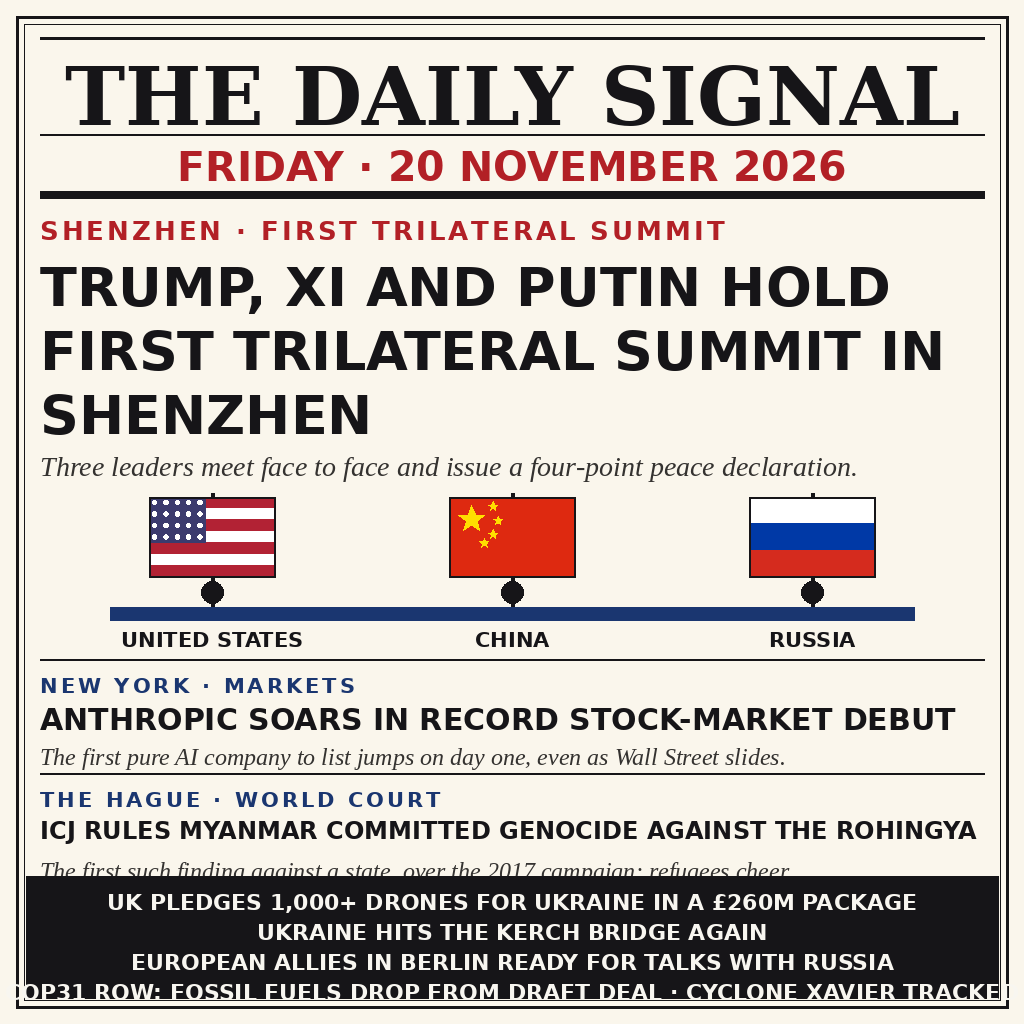
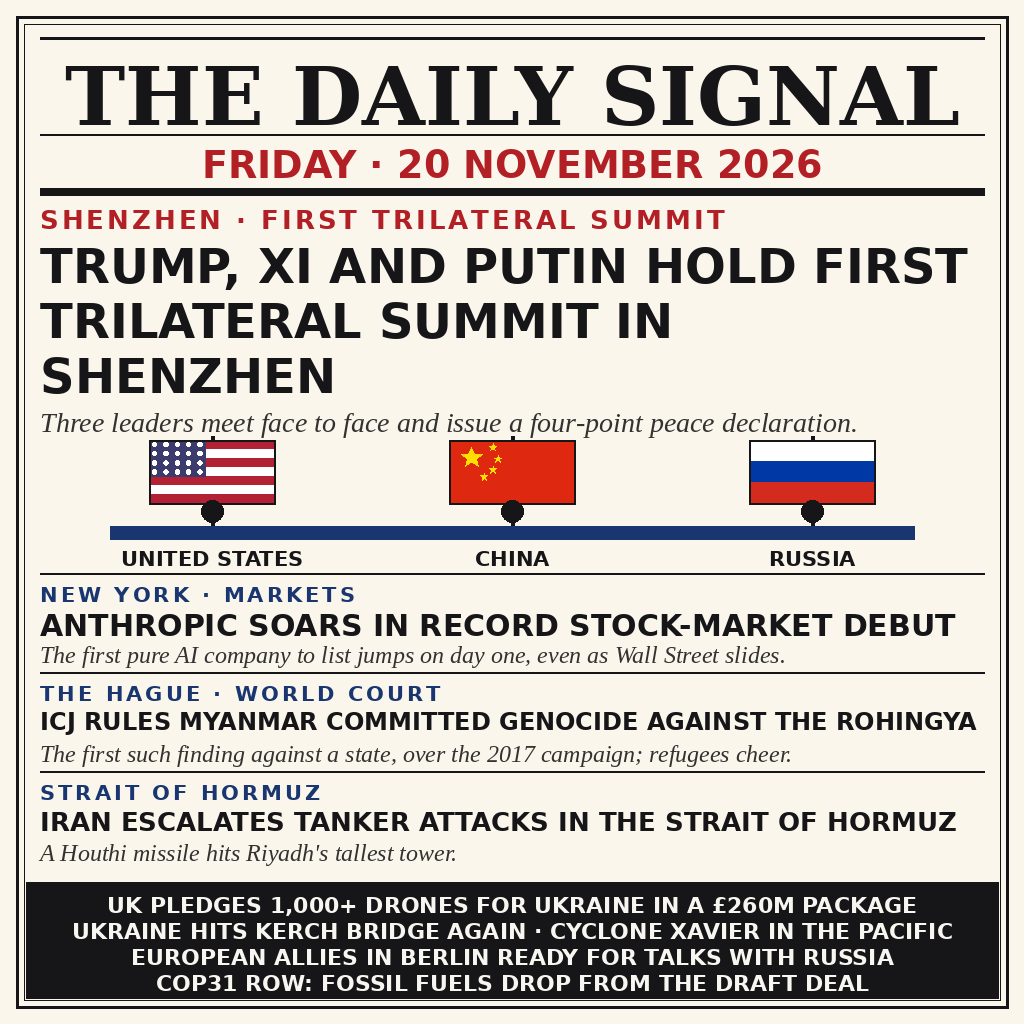
Legibility pass: rebalance the page so nothing crowds or clips
The first draft ran long: the third panel slid under the footer band
and the last ticker line clipped at the frame. Tightened the masthead,
hero and panel spacing, shrank the summit flags, shortened the ticker
lines so each fits the band at full size (with a fit guard in code),
and gave the standfirsts clear air above their rules. main.py now
delivers atomically: bytes land in a scratch file, verify, then rename
onto entry.png.

Changed region(s): [[0.0312, 0.125, 0.9688, 1.0], [0.0312, 0.9375, 0.0625, 0.9688]]

diff --git a/compose.py b/compose.py
@@ -122,11 +122,11 @@ def flag_russia(draw, x, y, w, h):
 
 def summit_graphic(draw, top):
     """Three flags on poles above a summit table, with name labels."""
-    flag_w, flag_h = 126, 80
+    flag_w, flag_h = 126, 64
     centers = (212, 512, 812)
     flags = (flag_united_states, flag_china, flag_russia)
     labels = ("UNITED STATES", "CHINA", "RUSSIA")
-    table_y = top + flag_h + 30
+    table_y = top + flag_h + 22
     for cx, draw_flag in zip(centers, flags):
         draw.line([cx, top - 4, cx, table_y], fill=INK, width=4)
         draw_flag(draw, cx - flag_w // 2, top, flag_w, flag_h)
@@ -137,7 +137,7 @@ def summit_graphic(draw, top):
     label_font = font(SANS_BOLD, 21)
     for cx, label in zip(centers, labels):
         draw.text((cx, table_y + 20), label, font=label_font, fill=INK, anchor="ma")
-    return table_y + 48
+    return table_y + 45
 
 
 # --- page sections --------------------------------------------------------
@@ -145,61 +145,61 @@ def summit_graphic(draw, top):
 def masthead(draw):
     y = 38
     draw.line([MARGIN, y, SIZE - MARGIN, y], fill=INK, width=3)
-    title_font = fit(draw, "THE DAILY SIGNAL", SERIF_BOLD, 900, 104)
+    title_font = fit(draw, "THE DAILY SIGNAL", SERIF_BOLD, 900, 98)
     y = centered(draw, y + 10, "THE DAILY SIGNAL", title_font) + 8
     draw.line([MARGIN, y, SIZE - MARGIN, y], fill=INK, width=2)
-    y = centered(draw, y + 8, "FRIDAY · 20 NOVEMBER 2026", font(SANS_BOLD, 41), fill=RED)
+    y = centered(draw, y + 8, "FRIDAY · 20 NOVEMBER 2026", font(SANS_BOLD, 38), fill=RED)
     draw.rectangle([MARGIN, y + 10, SIZE - MARGIN, y + 17], fill=INK)
-    return y + 34
+    return y + 26
 
 
 def hero(draw, y):
     tracked(draw, MARGIN, y, "SHENZHEN · FIRST TRILATERAL SUMMIT",
             font(SANS_BOLD, 26), RED)
-    y += 40
-    head_font = font(SANS_BOLD, 54)
+    y += 34
+    head_font = font(SANS_BOLD, 48)
     headline = "TRUMP, XI AND PUTIN HOLD FIRST TRILATERAL SUMMIT IN SHENZHEN"
     for line in wrap(draw, headline, head_font, WIDTH):
         draw.text((MARGIN, y), line, font=head_font, fill=INK)
-        y += 64
+        y += 55
     standfirst = ("Three leaders meet face to face and issue "
                   "a four-point peace declaration.")
     stand_font = fit(draw, standfirst, SERIF_ITALIC, WIDTH, 28)
     draw.text((MARGIN, y + 4), standfirst, font=stand_font, fill=SOFT)
-    y += 44
-    return summit_graphic(draw, y + 6)
+    y += 33
+    return summit_graphic(draw, y + 4)
 
 
 def panel(draw, y, kicker, headline, standfirst):
     tracked(draw, MARGIN, y, kicker, font(SANS_BOLD, 21), BLUE)
-    y += 29
+    y += 26
     head_font = fit(draw, headline, SANS_BOLD, WIDTH, 34, 24)
     draw.text((MARGIN, y), headline, font=head_font, fill=INK)
-    y += 41
+    y += 33
     stand_font = fit(draw, standfirst, SERIF_ITALIC, WIDTH, 24)
     draw.text((MARGIN, y), standfirst, font=stand_font, fill=SOFT)
-    return y + 30
+    return y + 31
 
 
 def rule(draw, y):
     draw.line([MARGIN, y, SIZE - MARGIN, y], fill=INK, width=2)
-    return y + 14
+    return y + 9
 
 
 def footer(draw):
     lines = [
         "UK PLEDGES 1,000+ DRONES FOR UKRAINE IN A £260M PACKAGE",
-        "UKRAINE HITS THE KERCH BRIDGE AGAIN",
+        "UKRAINE HITS KERCH BRIDGE AGAIN · CYCLONE XAVIER IN THE PACIFIC",
         "EUROPEAN ALLIES IN BERLIN READY FOR TALKS WITH RUSSIA",
-        "COP31 ROW: FOSSIL FUELS DROP FROM DRAFT DEAL · CYCLONE XAVIER TRACKED",
+        "COP31 ROW: FOSSIL FUELS DROP FROM THE DRAFT DEAL",
     ]
-    top = SIZE - 148
+    top = SIZE - 142
     draw.rectangle([26, top, SIZE - 26, SIZE - 26], fill=INK)
-    fnt = font(SANS_BOLD, 22)
-    y = top + 13
+    y = top + 10
     for line in lines:
+        fnt = fit(draw, line, SANS_BOLD, 920, 22)
         centered(draw, y, line, fnt, fill=WHITE)
-        y += 30
+        y += 26
     return SIZE - 26
 
 
@@ -211,7 +211,7 @@ def compose():
 
     y = masthead(draw)
     y = hero(draw, y)
-    y = rule(draw, y + 4)
+    y = rule(draw, y + 2)
     y = panel(draw, y, "NEW YORK · MARKETS",
               "ANTHROPIC SOARS IN RECORD STOCK-MARKET DEBUT",
               "The first pure AI company to list jumps on day one, "

diff --git a/main.py b/main.py
@@ -60,12 +60,20 @@ def output_directory() -> Path:
 
 
 def deliver(data: bytes, directory: Path) -> Path:
-    """Write the image into the output directory and verify the copy."""
+    """Write the image into the output directory and verify the copy.
+
+    The bytes land in a scratch file first and are renamed onto the
+    final name only once they verify, so the output directory never
+    holds a half-written or mismatched entry.png.
+    """
     directory.mkdir(parents=True, exist_ok=True)
     target = directory / IMAGE_NAME
-    target.write_bytes(data)
-    if hashlib.sha256(target.read_bytes()).digest() != hashlib.sha256(data).digest():
+    scratch = directory / (IMAGE_NAME + ".part")
+    scratch.write_bytes(data)
+    if hashlib.sha256(scratch.read_bytes()).digest() != hashlib.sha256(data).digest():
+        scratch.unlink(missing_ok=True)
         raise DeliveryError("written image does not match the bundled image")
+    os.replace(scratch, target)
     return target
 
 
